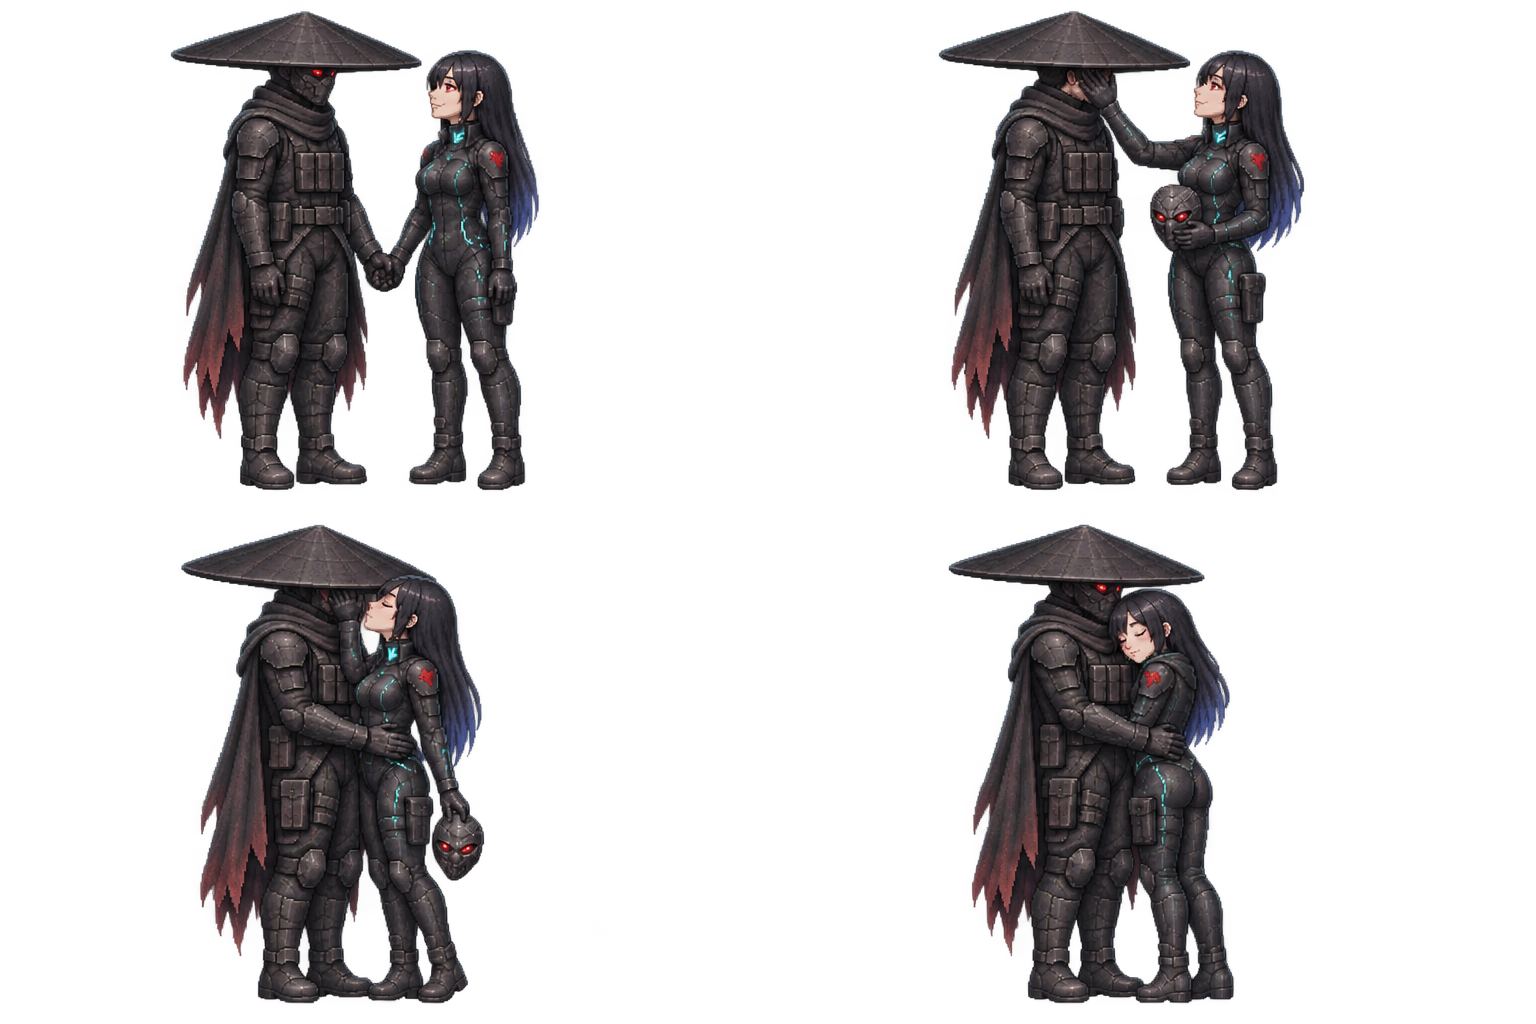
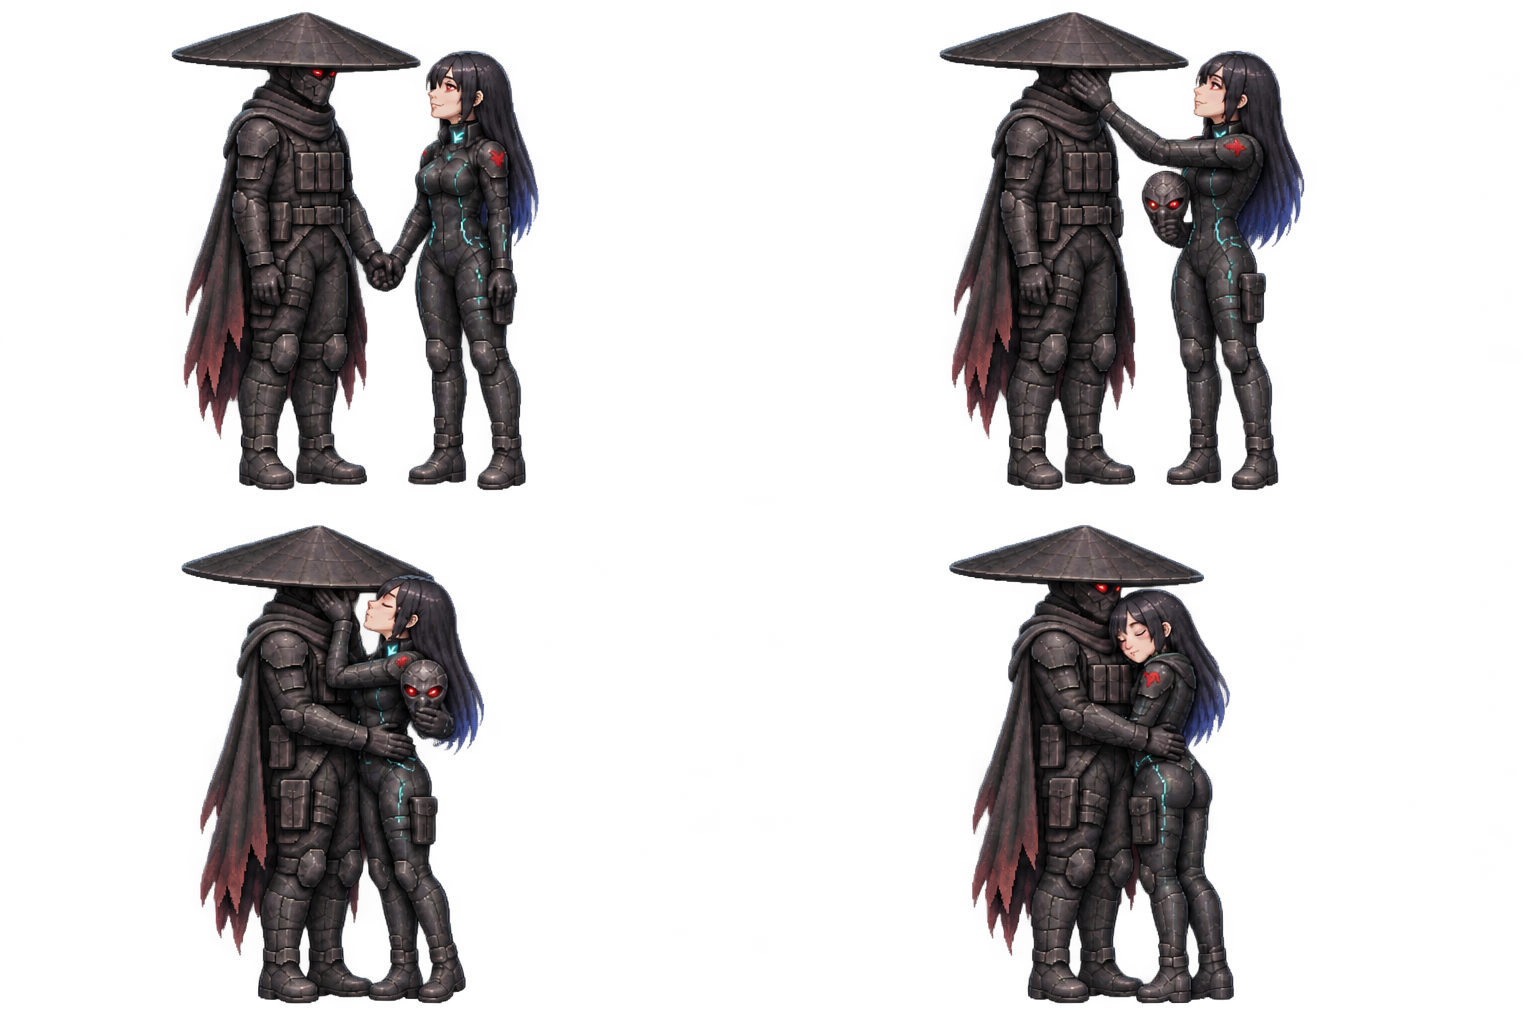
v0.36.1 · CodexAI: Ravens rechte Hand hebt die Maske, linke verdeckt das Gesicht

diff --git a/docs/arbeiten/see-haende-v0361.md b/docs/arbeiten/see-haende-v0361.md
@@ -1,0 +1,35 @@
+# Handführung am See · v0.36.1 · CodexAI
+
+## Auftrag und Referenzen
+
+- **Nutzerziel:** Raven hebt Shadepis Maske mit ihrer eigenen rechten Hand; ihre eigene linke Hand berührt sein Gesicht und verdeckt weiterhin dessen Züge. Diese Zuordnung muss über Maskenabnahme und Kuss konsistent bleiben.
+- **Ausgang:** `1b72906`, v0.36.0. Lokaler Stand sauber und gleich GitHub `main`; alle Remote-Branches erneut abgerufen. Die älteren Entwicklungsbranches haben keine neuere Arbeit erhalten. Keine fremden Änderungen offen.
+- **Aktive Quellen gesichtet:** Bisheriger `assets/story/lake/poses.png`, normale Figurenkarten `docs/stilbibel/bilder/figur-raven.png` und `figur-shadepi.png`, Art Direction und See-Szenenvertrag. Die korrigierten Zellen ersetzen den Handfehler der v0.36.0, nicht den etablierten Figurenstil.
+- **Erhalten:** Raven 160 cm und ihr schwarzer Cyan-Anzug, rote Schulterzeichen, schwarze/blaue Haare; Shadepis breiter Kasa, dunkle Weste, Stoffbahnen und verdeckte Gesichtszüge. Kein neuer Zentimeterwert für Shadepi, keine neue Gesichtsidentität. Comic nicht lokal vorhanden.
+- **Umfang:** Gezielte Bildbearbeitung des vorhandenen Atlas durch das Grafikwerkzeug. Keine neuen Szenen, kein Austausch von Kulisse, Flug, Drachenquelle oder normaler Figurenanimation. Quellgenerierung erhalten; keine programmgesteuerte Bemalung der PNG.
+
+## Grafikvertrag
+
+Vier Zellen à 768×512 im transparenten 1536×1024-Atlas; bestehender Fußanker `(300,488)` und Maßstab `0.125`. Maskenabnahme und Kuss zeigen Ravens linke Hand von ihrer nahen Schulter am Gesicht Shadepis, während ihre rechte Hand die abgenommene Maske angehoben hält. Die Zuordnung bezieht sich auf Ravens Anatomie, nicht auf die Bildschirmseiten. Hand, Kasa und Kopfwendung verbergen Shadepis Gesicht durchgehend. Händehalten und Schlussumarmung bleiben dieselben Aktionen; die normale lineare Abtastung und Kontakt-/Bodenschatten bleiben erhalten.
+
+## Abnahme
+
+**Sichtprüfung: CodexAI, 9. November 2026, Godot 4.7.2, tatsächlicher OpenGL-Renderer.**
+
+| Prüffeld | Tatsächliches Ergebnis / Beleg |
+| --- | --- |
+| Arme und Handkontakt | Maskenabnahme und Kuss im Quellblatt und in Spielgröße einzeln gesichtet. Naher linker Arm führt von Ravens Schulter mit sichtbarem rotem Emblem zur verdeckenden Hand; rechte Hand hält die Maske angehoben. Keine zusätzliche Hand, kein vollständiges Gesicht. [Maskenabnahme](../previews/see-maske-v0361.png), [Kuss](../previews/see-kuss-v0361.png) |
+| Stil, Größe, Füße, Transparenz | Bestehende Maße und Anker funktionieren weiter. Schlussumarmung neben normalen Raven-/Shadepi-Sprites bei gleicher Kamera verglichen; Figuren und Kostüme konsistent. Alpha-Ränder und Körperdeckkraft in allen vier Zellen geprüft. |
+| Ganze Animation / Rückkehr | Finale ohne Überspringen durchlaufen, einschließlich Händehalten, Maskenabnahme, Kuss, Drachenschatten, Umarmung und Abschluss. 178 tatsächliche Renderer-Frames über etwa 23,25 Sekunden aufgenommen; [durchgehender Film](../previews/see-finale-v0361.webp). |
+| Controller, Pause, Skip, Laden, Abbruch | Vorhandene 32 Seeprüfungen mit neuer Quelle erneut bestanden, darunter rohes Controller-B, Pause von Licht/Uhr, vollständiger Anflug/Finale, Legacy-Spielstände und Rücksetzung der Figuren beim Kapitelwechsel. Tastatur-/Ton-/Bildstilimplementierung unverändert; native Aufnahme mit Dummy-Audio, keine neue akustische Abnahme. |
+| Export | Linux-PCK gebaut, tatsächlich gestartet und Kontaktpose mit den gepackten Ressourcen gerendert und gesichtet. Acht zusätzliche Prüfungen bestanden: Szenenstart/-abschluss, Skip, Kontrollpunkt, beide HQ-Quellen, Shader und Kapitelwechsel. Keine native Windows-Prüfung. |
+| Version / Sicherung | Spielversion 0.36.1, Windows-Datei-/Produktversion 0.36.1.0, beide READMEs, CHANGELOG und neue Hinweise mit CodexAI. Quellbild, Spielaufnahmen, Galerieoptionen und Dokumentation gemeinsam im Git-Commit; Sicherungsziel `origin/main`. Keine Cloud-Veröffentlichung. |
+
+Reproduzierbare Sichtprüfung nur des betroffenen Finales:
+
+```sh
+godot --audio-driver Dummy --script res://tools/lake_gallery.gd -- --film --finale-only --out=/tmp/shadepi-lake-v0361
+godot --headless --script res://tests/lake_sequence.gd
+```
+
+**Ergebnis:** Handkorrektur fertig. 32 gezielte Szenenprüfungen und acht zusätzliche Exportprüfungen, jeweils 0 Fehler. Automatische Prüfungen ersetzen nicht die oben dokumentierte anatomische Sichtprüfung. Die 920 Prüfungen der Einführungsversion wurden für diese reine Grafikänderung nicht pauschal wiederholt.

diff --git a/docs/see-finale.md b/docs/see-finale.md
@@ -1,4 +1,6 @@
-# Der See · v0.36.0 · CodexAI
+# Der See · v0.36.1 · CodexAI
+
+**Handkorrektur v0.36.1 · CodexAI:** Raven hebt die abgenommene Maske mit ihrer **eigenen rechten Hand**. Ihre **eigene linke Hand** berührt und verdeckt Shadepis Gesicht. Die Zuordnung bleibt beim Kuss erhalten; rechts/links beziehen sich auf Raven, nicht auf die Bildschirmrichtung.
 
 ## Ankunft im Mondlicht
 
@@ -16,13 +18,13 @@ Die freiwillige Aufnahme Ravens in den Orden findet weiterhin vor der Maskenabna
 
 | Maskenabnahme | Kuss |
 | --- | --- |
-| ![Ravens Hand verdeckt Shadepis Gesicht](previews/see-maske-v036.png) | ![Kuss mit verdeckten Gesichtszügen](previews/see-kuss-v036.png) |
+| ![Linke Hand an Shadepis Gesicht, rechte hebt die Maske](previews/see-maske-v0361.png) | ![Gleiche Handführung im Kuss](previews/see-kuss-v0361.png) |
 
 Im See steigt ein sanftes Leuchten auf. Ein Drachenschatten gleitet für wenige Sekunden über die Wasserfläche und verschwindet wieder. Anschließend bleiben beide in einer ruhigen Umarmung am Ufer. Die Frage nach Kenzōs Auftraggeber ist weiterhin offen; für diesen Abend lassen sie sie ruhen.
 
-![Flüchtiger Drachenschatten über dem leuchtenden Wasser](previews/see-drache-v036.png)
+![Flüchtiger Drachenschatten über dem leuchtenden Wasser](previews/see-drache-v0361.png)
 
-![Tatsächliche Godot-Aufnahme der neuen Seeszenen](previews/see-finale-v036.webp)
+![Tatsächliche Godot-Aufnahme des korrigierten Finales in v0.36.1](previews/see-finale-v0361.webp)
 
 Die beiden Clips zeigen jeweils eine durchgehende Spielszene aus tatsächlichen Renderer-Frames, mit ihren Aufnahmezeitpunkten als Wiedergabezeit. Der spielbare Ritualteil dazwischen ist nicht Teil der Filme. Das Spiel animiert Fahrzeug, Figuren, Kontaktposen, Licht und Schatten selbst. Es spielt keine Comicseite oder vorgerenderte Filmdatei ab.
 
@@ -36,7 +38,7 @@ Ein Spielstand während Ankunft oder Finale startet die jeweilige Szene erneut. 
 
 Vorhandene HQ-Kulisse und Aerodyne wurden wiederverwendet. Der neue Kontaktatlas verwendet die tatsächlichen Figurenkarten als Referenz; Kasa-Breite, Raven-Größe, Kostüm, Transparenz und Fuß-/Handkontakt wurden neben normalen Sprites im Renderer verglichen. Der Drache ist eine separat freigestellte neue HQ-Pixelquelle nach dem bestehenden Menümotiv. Schatten und Leuchten werden über die echte Uferkontur beschnitten.
 
-920 gezielte Prüfungen und acht zusätzliche Prüfungen am exportierten Spielpaket bestanden ohne Fehler. Maskenabnahme, Kuss, Schatten und vollständiger Ablauf wurden zusätzlich im tatsächlichen Renderer gesichtet.
+Bei Einführung in v0.36.0 bestanden 920 gezielte Prüfungen und acht zusätzliche Prüfungen am exportierten Spielpaket ohne Fehler. Für die reine Handkorrektur in v0.36.1 bestanden erneut die betroffenen 32 Szenenprüfungen und acht Exportprüfungen; keine erneute Gesamtspielprüfung behauptet. Maskenabnahme, Kuss und vollständiger Finalablauf wurden zusätzlich im tatsächlichen Renderer gesichtet. [Aktuelle Abnahme](arbeiten/see-haende-v0361.md).
 
 Der Comic wurde nicht hochgeladen. Für die Inszenierung gelten die konkrete Nutzerbeschreibung und die vorhandene Romanfassung mit den gekennzeichneten neueren Änderungen. [Assetquellen](../assets/story/lake/README.md) · [Archivbriefing](universum/teil-7/README.md) · [Arbeitsnachweis und aktuelle Prüfergebnisse](arbeiten/see-finale-v036.md).
 

diff --git a/KONSISTENZ.md b/KONSISTENZ.md
@@ -1,6 +1,6 @@
 # Verbindliche Konsistenzvorlage für ShadepiRPG
 
-**Stand v0.36.0 · CodexAI · 9. November 2026; eingeführt mit v0.32.1.** Gilt für das gesamte Spiel und alle Mitwirkenden, ob Mensch oder KI. Vor Änderungen zusammen mit [AGENTS.md](AGENTS.md) lesen und die [Arbeitsvorlage](docs/vorlagen/konsistenz-auftrag.md) verwenden. Eine neuere ausdrückliche Nutzervorgabe hat Vorrang; bestätigte Änderungen anschließend hier und in den betroffenen Referenzen nachführen.
+**Stand v0.36.1 · CodexAI · 9. November 2026; eingeführt mit v0.32.1.** Gilt für das gesamte Spiel und alle Mitwirkenden, ob Mensch oder KI. Vor Änderungen zusammen mit [AGENTS.md](AGENTS.md) lesen und die [Arbeitsvorlage](docs/vorlagen/konsistenz-auftrag.md) verwenden. Eine neuere ausdrückliche Nutzervorgabe hat Vorrang; bestätigte Änderungen anschließend hier und in den betroffenen Referenzen nachführen.
 
 ## Bebilderter Einstieg für das gesamte Spiel
 
@@ -112,7 +112,7 @@ Sonderatlanten für Sitzen, Liegen, Gegner oder Menü folgen ihren eigenen Metad
 - FX kommen aus nachvollziehbaren Quellen: Fensterregen auf Glas, Dampf am Austritt, Glut am Feuer. Figuren, Hindernisse, Hinweise und Angriffssignale bleiben lesbar. Bestehende Qualitätsstufen und Pausenregeln erhalten; keine unbegrenzten Partikelspawner.
 - Musikpfade und Groß-/Kleinschreibung nach der aktiven Zuordnung erhalten. Hauptmenü und See teilen aktuell `Level.mp3`; normale Kämpfe und Bosse ihre jeweiligen Kampfstücke. Ton-Aus und Pausenverhalten auch für neue Klänge beachten.
 
-- See-Finale ab v0.36.0 · CodexAI: Der Aerodyne landet auf trockenem Uferboden; beide steigen aus der seitlichen Kabine aus. Nach Ravens freiwilliger Ordensaufnahme nimmt **sie** Shadepis Maske ab. **Sein Gesicht bleibt durch Ravens Hand, Kasa und Kopfhaltung verdeckt; kein vollständiges Porträt.** Ein kurzer Drachenschatten und mystisches Leuchten bleiben auf die Wasserfläche beschnitten. Der Comic liegt nicht lokal vor; maßgeblich ist die Nutzerbeschreibung. [Aktive Quellen und Belege](docs/see-finale.md).
+- See-Finale ab v0.36.0 · CodexAI: Der Aerodyne landet auf trockenem Uferboden; beide steigen aus der seitlichen Kabine aus. Nach Ravens freiwilliger Ordensaufnahme nimmt **sie** Shadepis Maske ab. **Handkorrektur v0.36.1 · CodexAI: Ravens eigene rechte Hand hebt die Maske, ihre eigene linke berührt und verdeckt sein Gesicht; auch im Kuss.** **Sein Gesicht bleibt durch Ravens Hand, Kasa und Kopfhaltung verdeckt; kein vollständiges Porträt.** Ein kurzer Drachenschatten und mystisches Leuchten bleiben auf die Wasserfläche beschnitten. Der Comic liegt nicht lokal vor; maßgeblich ist die Nutzerbeschreibung. [Aktive Quellen und Belege](docs/see-finale.md).
 
 ## 8. Verbindliche Fertigprüfung
 

diff --git a/AGENTS.md b/AGENTS.md
@@ -2,7 +2,7 @@
 
 **Szenenkorrektur v0.35.1 · CodexAI:** [Tower-/Hangar-Inszenierung](docs/tower-inszenierung.md): Kenzō wartet neben dem Sessel; Raven geht auf ihn zu, nach dem Griff läuft Shadepi dazu. Keine Spawnpunkte in Einrichtung. **Die Flucht startet auf dem Dach-Landeplatz am tatsächlichen Abstellpunkt, niemals auf dem Balkon.** Nach dem Abheben und Antriebsproblem kommt der Aerodyne in der Fassadenansicht von oben am Balkon vorbei und fängt sich darunter. Diese ausdrückliche Nutzervorgabe ersetzt die falsche Balkonfassung aus v0.35.0. Körper und Düsen behalten ihren gemeinsamen Projektionsvertrag; Extraktion, Hangar und Kontrollpunkte erhalten.
 
-**See-Finale v0.36.0 · CodexAI:** [Anflug, Aussteigen und privater Kuss](docs/see-finale.md). Aktiver Kontaktatlas `assets/story/lake/poses.png`; Ravens Hand und der Kasa verdecken Shadepis Gesicht in beiden maskenlosen Posen. Kein vollständiges Gesicht zeichnen oder einblenden. Neue Nutzerbeschreibung hat Vorrang vor der älteren erzählten Gesichtsenthüllung; Comic nicht als gesichtet ausgeben. Trockenes Ufer, gleiche Fahrzeugquelle, Ordensaufnahme vor dem Maskenmoment, kurzzeitiger auf Wasser beschnittener Drachenschatten. [Archiv Teil 7](docs/universum/teil-7/README.md).
+**See-Finale v0.36.1 · CodexAI:** [Anflug, Aussteigen und privater Kuss](docs/see-finale.md). Aktiver Kontaktatlas `assets/story/lake/poses.png`; **Ravens eigene rechte Hand hebt die Maske; ihre eigene linke berührt und verdeckt sein Gesicht.** Diese anatomische Zuordnung gilt bei Maskenabnahme und Kuss. Ravens Hand und der Kasa verdecken Shadepis Gesicht in beiden maskenlosen Posen. Kein vollständiges Gesicht zeichnen oder einblenden. Neue Nutzerbeschreibung hat Vorrang vor der älteren erzählten Gesichtsenthüllung; Comic nicht als gesichtet ausgeben. Trockenes Ufer, gleiche Fahrzeugquelle, Ordensaufnahme vor dem Maskenmoment, kurzzeitiger auf Wasser beschnittener Drachenschatten. [Archiv Teil 7](docs/universum/teil-7/README.md).
 
 ## Vor jeder Änderung lesen
 

diff --git a/Spiel-README.md b/Spiel-README.md
@@ -1,6 +1,8 @@
 # Shadepi · Echos in Neon
 
-**Spieleranleitung für v0.36.0 · CodexAI.** Aktuelle Downloads: [Releases](https://github.com/Inrouder/ShadepiRPG/releases/latest) · Prüfstatus: [Repository-Startseite](README.md) · Änderungen: [Versionshinweise](CHANGELOG.md).
+**Spieleranleitung für v0.36.1 · CodexAI.** Aktuelle Downloads: [Releases](https://github.com/Inrouder/ShadepiRPG/releases/latest) · Prüfstatus: [Repository-Startseite](README.md) · Änderungen: [Versionshinweise](CHANGELOG.md).
+
+**Handkorrektur v0.36.1 · CodexAI:** Raven hebt die Maske mit ihrer **rechten** Hand; ihre **linke** berührt und verdeckt Shadepis Gesicht. Diese Zuordnung gilt auch während des Kusses. Bedienung und Szenenablauf bleiben wie bisher. [Aktuelle Spielbilder](docs/see-finale.md).
 
 **See-Finale v0.36.0 · CodexAI:** Kapitel 7 beginnt mit dem sichtbaren Landeanflug und Aussteigen am See. Danach führt der bisherige Weg ans Wasser und durch Ravens freiwillige Aufnahme in den Orden. Anschließend nimmt sie Shadepis Maske ab und küsst ihn; seine Gesichtszüge bleiben durch ihre Hand und den Kasa verdeckt. Der kurze Drachenschatten und das Leuchten sind Teil der Szene. **E / Enter / A**: Dialog weiter; **Leertaste / B**: Szene überspringen; **Esc / Start**: Pause. Laden während der Ankunft oder des Finales startet nur diese Szene neu; abgeschlossene neue Szenen werden nicht wiederholt. Ältere Spielstände am Kapitelanfang oder Ende erhalten die jeweilige neue Szene einmal. Die vorhandene Seemusik bleibt erhalten. [Bilder und Film](docs/see-finale.md).
 

diff --git a/README.md b/README.md
@@ -1,6 +1,6 @@
 # Shadepi · Echos in Neon
 
-**2D-Action-RPG · v0.36.0 · Godot 4.7.2 · Windows / Linux · Einzelspieler und Lokal-Koop**
+**2D-Action-RPG · v0.36.1 · Godot 4.7.2 · Windows / Linux · Einzelspieler und Lokal-Koop**
 
 Ein spielbares Cyberpunk-Abenteuer nach **„Shadepi – Im Schatten des Raben“** mit sieben Kapiteln, gemalten Spielwelten, illustrierten Sprites für Raven, Shadepi und die Gegner sowie zerstörbarer Umgebung.
 
@@ -38,6 +38,11 @@ Die Musik wechselt passend zwischen Hauptmenü, Erkundung, normalen Kämpfen und
 ## Mitarbeit und verbindliche Konsistenz
 
 Für Menschen und KI: **[Bebilderte Stilbibel des gesamten Spiels](docs/stilbibel/README.md)** · [Alle 23 Figuren mit Einzelkarten](docs/stilbibel/figuren.md) · [Konsistenzregeln](KONSISTENZ.md) · [Mitarbeit](CONTRIBUTING.md) · [Kopierbarer Auftrag und Arbeitsnachweis](docs/vorlagen/konsistenz-auftrag.md). Die Projektregeln in [AGENTS.md](AGENTS.md), der Einstieg für [Claude](CLAUDE.md) und die Pull-Request-Vorlage verweisen auf denselben Standard.
+
+## Neu in v0.36.1 · CodexAI · 9. November 2026
+
+- Ravens Handführung im See-Finale korrigiert: Ihre **rechte Hand hebt die Maske**, ihre **linke berührt und verdeckt Shadepis Gesicht**. Die Zuordnung bleibt in Maskenabnahme und Kuss konsistent.
+- Kontaktposen im tatsächlichen Spiel geprüft; [aktuelle Bilder und Film](docs/see-finale.md), [Arbeitsnachweis](docs/arbeiten/see-haende-v0361.md).
 
 ## Neu in v0.36.0 · 9. November 2026 · CodexAI
 

diff --git a/CHANGELOG.md b/CHANGELOG.md
@@ -1,5 +1,12 @@
 # Versionshinweise
 
+## v0.36.1 – CodexAI: Ravens rechte Hand an der Maske, linke am Gesicht · 9. November 2026
+
+- Handführung der beiden See-Kontaktposen korrigiert: Raven hebt die abgenommene Maske mit ihrer eigenen rechten Hand; ihre eigene linke Hand berührt und verdeckt Shadepis Gesicht. Dieselbe anatomische Zuordnung gilt im Kuss. Gesicht, Kasa und Kostüme bleiben konsistent.
+- Bestehenden HQ-Atlas gezielt nachbearbeitet; Zellformat, Fußanker und Szenenablauf bleiben erhalten. Figurenvertrag und Archivpräzisierung dokumentiert. Galerie kann das Finale für gezielte Sichtprüfungen separat durchlaufen.
+- 32 gezielte Seeprüfungen und acht zusätzliche Exportprüfungen ohne Fehler. Gesamtes Finale mit korrigierter Handführung im tatsächlichen Renderer durchlaufen und gefilmt; Kontaktpose auch aus dem exportierten Paket gesichtet.
+- [Aktuelle Bilder und Film](docs/see-finale.md), [Arbeitsnachweis](docs/arbeiten/see-haende-v0361.md).
+
 ## v0.36.0 – CodexAI: See-Anflug, Aussteigen und romantisches Finale · 9. November 2026
 
 - Neuer tatsächlicher Aerodyne-Anflug über den Mondscheinsee: weite Ansicht, stetige Annäherung, Kamerafahrt zur freien Uferfläche und weiches Aufsetzen auf trockenem Gras. Derselbe HQ-Fahrzeug-/Düsenrenderer bleibt erhalten. Raven und Shadepi steigen nacheinander aus dem seitlichen Kabinenbereich und gehen sichtbar zum Wasser; das geparkte Schiff bleibt dort mit Bodenkollision stehen.

diff --git a/docs/universum/teil-7/README.md b/docs/universum/teil-7/README.md
@@ -1,4 +1,4 @@
-# Teil 7 · See-Finale · v0.36.0 · CodexAI
+# Teil 7 · See-Finale · v0.36.1 · CodexAI
 
 Quelle: ausdrücklicher Nutzerauftrag vom 9. November 2026 im Chat. Keine neue Comicdatei oder Originalbildvorlage wurde hochgeladen.
 
@@ -10,6 +10,8 @@ Quelle: ausdrücklicher Nutzerauftrag vom 9. November 2026 im Chat. Keine neue C
 4. Shadepis Gesicht darf nicht vollständig sichtbar werden. Ravens Hand verdeckt es, wie vom Nutzer für den nicht lokal vorliegenden Comic beschrieben.
 
 Die konkrete Handverdeckung und Ravens Maskenabnahme haben Vorrang vor dem älteren Romantext, in dem Shadepi die Maske selbst abnahm und seine Augen ausdrücklich beschrieben wurden. Die freiwillige Ordensaufnahme bleibt davor erhalten. Keine neue vollständige Gesichtsgestaltung oder Identität des Drachen wird als bestätigter Kanon ergänzt.
+
+**Präzisierung durch den Nutzer, v0.36.1 · CodexAI:** Raven hebt die Maske mit ihrer eigenen **rechten** Hand; ihre eigene **linke** Hand berührt Shadepis Gesicht. Das gilt durch Maskenabnahme und Kuss hindurch, unabhängig von der Bildschirmrichtung.
 
 ## Umsetzung
 

diff --git a/assets/story/lake/README.md b/assets/story/lake/README.md
@@ -1,4 +1,6 @@
-# See-Ankunft und Kontaktposen · v0.36.0 · CodexAI
+# See-Ankunft und Kontaktposen · v0.36.1 · CodexAI
+
+**Handkorrektur v0.36.1 · CodexAI:** Die aktive Quelle wurde gezielt nachbearbeitet: Raven hebt die Maske mit ihrer eigenen **rechten** Hand; ihre **linke** berührt und verdeckt Shadepis Gesicht. Diese anatomische Zuordnung gilt in Zelle 1 (Maskenabnahme) und Zelle 2 (Kuss). Die rechte Hand hält die Maske angehoben statt an Ravens linker Außenseite am Bein.
 
 `poses.png` ist ein unverändert generierter transparenter 1536×1024-Atlas mit vier 768×512-Zellen: Händehalten mit Maske, Ravens Maskenabnahme mit verdeckender Hand, Kuss mit weiterhin verdecktem Gesicht und Umarmung mit wieder aufgesetzter Maske. Referenzen waren die tatsächlichen Raven-/Shadepi-Bildkarten aus den normalen Gameplay-Atlanten. Eine erste Studie wurde vor der Verwendung anhand der sichtbaren Spritebreite korrigiert: breiter Kasa und passende Raven-Größe. Die aktive Datei ist die überarbeitete Quelle, keine programmatisch bemalte Montage.
 

diff --git a/docs/universum/README.md b/docs/universum/README.md
@@ -1,5 +1,7 @@
 # Shadepi-Universum-Archiv
 
+**Handkorrektur v0.36.1 · CodexAI:** Im [See-Finale](../see-finale.md) hebt Raven die Maske mit ihrer **rechten** Hand; ihre **linke** berührt und verdeckt Shadepis Gesicht. Diese Zuordnung gilt für Maskenabnahme und Kuss, jeweils aus Ravens eigener Sicht.
+
 **Ergänzung v0.36.0 · CodexAI:** [Teil 7](teil-7/README.md) hält die Nutzerbeschreibung des See-Finales fest: Landeanflug, Aussteigen, Romantik, Drachenschatten und mystisches Licht. Raven nimmt die Maske ab; ihre Hand verdeckt Shadepis Gesicht. Der Comic wurde weiterhin nicht hochgeladen.
 
 **Ergänzung v0.33.0 · CodexAI:** [Teil 6](teil-6/README.md) sichert die aktuelle Tower-Fortsetzung: lebender Kenzō während der geschützten Datenextraktion, offene Frage nach Motiv/Auftraggeber, endgültige Abrechnung danach und sichtbare knappe Flucht. Diese Reihenfolge hat Vorrang vor dem früheren Spielablauf.

diff --git a/docs/stilbibel/figuren.md b/docs/stilbibel/figuren.md
@@ -1,5 +1,7 @@
 # Figurenkatalog · v0.32.2 · CodexAI
 
+**Handkorrektur v0.36.1 · CodexAI:** Im [See-Finale](../see-finale.md) hebt Raven die Maske mit ihrer **rechten** Hand; ihre **linke** berührt und verdeckt Shadepis Gesicht. Diese Zuordnung gilt für Maskenabnahme und Kuss, jeweils aus Ravens eigener Sicht.
+
 [Stilbibel](README.md) · [Art Direction](artdirection.md) · [Welt und Kulissen](welten.md)
 
 **23 aktive Figuren beziehungsweise visuell eigenständige Typen.** Jede Karte zeigt vorhandene Quellpixel, keine neu generierten Ansichten. Körper-/Masken-/Kleidungsmerkmale erhalten; Stil und Darstellungsmaßstab zusätzlich nach der [Art Direction](artdirection.md) abgleichen. Storyangaben dienen Mitwirkenden als Kontinuitätsreferenz.

diff --git a/docs/stilbibel/README.md b/docs/stilbibel/README.md
@@ -1,5 +1,7 @@
 # ShadepiRPG · bebilderte Stilbibel für das gesamte Spiel
 
+**Handkorrektur v0.36.1 · CodexAI:** Im [See-Finale](../see-finale.md) hebt Raven die Maske mit ihrer **rechten** Hand; ihre **linke** berührt und verdeckt Shadepis Gesicht. Diese Zuordnung gilt für Maskenabnahme und Kuss, jeweils aus Ravens eigener Sicht.
+
 **v0.32.2 · CodexAI · 8. November 2026.** Gemeinsame Bild- und Gestaltungsreferenz für Menschen und KI: Figuren, Gegner, Schauplätze, Fahrzeuge, Requisiten, Menü, HUD, Hacks, Animationen, Effekte und Ton. Ergänzt die verbindlichen [Projektregeln](../../KONSISTENZ.md) und das [Universumsarchiv](../universum/README.md).
 
 ![Alle 23 vorhandenen Figuren und Typen](bilder/figuren-uebersicht.png)
